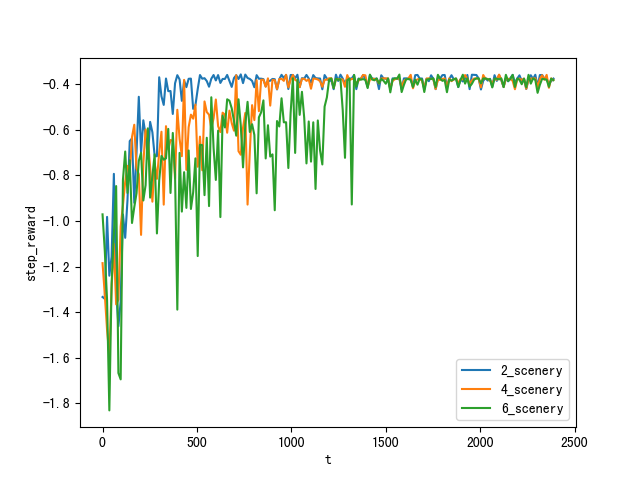
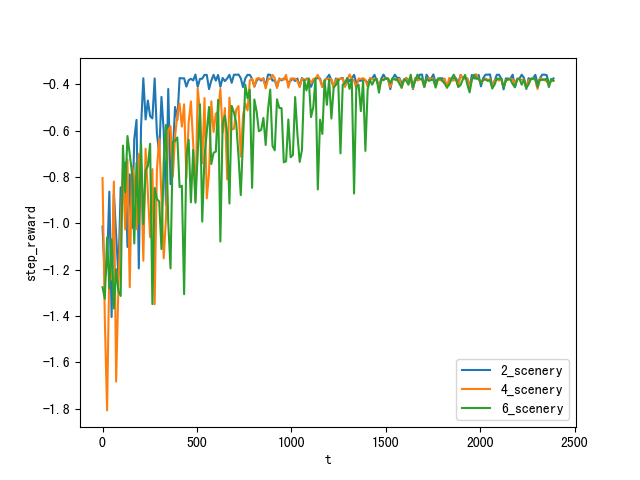
消耗图添加always_Best

diff --git a/environment/environment.py b/environment/environment.py
@@ -207,6 +207,7 @@ class Environment:
     def draw_without_reuse_table(self, arms, state):
         rewards = np.zeros((self.M,))
         regret_t = 0
+        num_cpt = 0
         for player in range(self.M):
             point = arms[player]
             rewards[player] = -self.phi / self.nearby(self.net_ability[point])  # 传输时延
@@ -216,9 +217,11 @@ class Environment:
                 regret_t += -(self.phi / self.net_ability[self.AB_best_point] + (
                             self.tao + self.phi / self.cpu_ability[self.AB_best_point]))
                 # regret_t += rewards[player]
+                num_cpt += 1
             elif player == 2:  # C服务
                 if point not in self.Cache[0][state[0]]:  # 节点上没有缓存
                     rewards[player] += -self.phi / self.nearby(self.cpu_ability[point])
+                    num_cpt += 1
                 regret_t += -(self.phi / self.net_ability[self.Cache[0][state[0]][0]] + self.tao)
                 # if -(self.phi / self.net_ability[self.Cache[0][state[0]][0]] + self.tao)<rewards[player]:
                 #     print(-(self.phi / self.net_ability[self.Cache[0][state[0]][0]] + self.tao))
@@ -226,6 +229,7 @@ class Environment:
             else:  # D服务
                 if point not in self.Cache[1][state[0] * self.O + state[1]]:  # 检索未命中
                     rewards[player] += -self.phi / self.nearby(self.cpu_ability[point])
+                    num_cpt += 1
                 regret_t += -(self.phi / self.net_ability[self.Cache[1][state[0] * self.O + state[1]][0]] + self.tao)
                 # if -(self.phi / self.net_ability[self.Cache[1][state[0]*self.O+state[1]][0]] + self.tao)<rewards[player]:
                 #     print(-(self.phi / self.net_ability[self.Cache[1][state[0]*self.O+state[1]][0]] + self.tao))
@@ -233,6 +237,7 @@ class Environment:
 
             regret_t -= rewards[player]
 
+        self.cpu_consume.append(num_cpt * (self.phi + random.uniform(0, 0.1)))
         return rewards, regret_t
 
     def draw_greedy(self):

diff --git a/algorithms/mctopm.py b/algorithms/mctopm.py
@@ -8,10 +8,6 @@ import pickle
 
 logger = logging.getLogger()
 logger.setLevel(logging.INFO)
-
-from tqdm import tqdm
-# from .algorithm import *
-# from .utils import *
 from algorithm import Algorithm
 from environment.environment import Environment
 
@@ -19,12 +15,13 @@ logger = logging.getLogger()
 logger.setLevel(logging.INFO)
 
 cythonized_KLUCB = False
-try:
-    pass
-    # from cklucb import computeKLUCB
-except:
-    cythonized_KLUCB = False
-    pass
+if cythonized_KLUCB:
+    try:
+        pass
+        # from cklucb import computeKLUCB
+    except:
+        cythonized_KLUCB = False
+        pass
 
 
 class MCTopM(Algorithm):
@@ -178,6 +175,8 @@ class MCTopM(Algorithm):
             msg = "H-MCB"
         elif self.env.reuse_type == 2:
             msg = "Non_reuse"
+        elif self.env.reuse_type==1:
+            msg = "Always_Best"
         else:
             raise ValueError
 
@@ -230,7 +229,7 @@ def get_all_algos(config):  # 生成五种算法
     return algos
 
 
-# 所有的对比图:
+# 下面每个方法绘制一张多条曲线的对比图:
 
 def change_K(K_list):  # 本文算法 改变计算节点数量
     plt.figure()
@@ -329,14 +328,15 @@ def change_policy():  # 五种算法 奖励变化情况
 def compare_Consume():  # 本文算法和无重用算法 对比计算资源消耗
     plt.figure()
     config = {'K': 20, 'S': 2}
-    env = Environment(config=config,
-                      deterministic=False)
 
-    env_no_reuse = Environment(config=config, reuse_type=2,
-                               deterministic=False)
+    env = Environment(config=config, deterministic=False)
+    env_reuse_no_table = Environment(config=config, reuse_type=1)
+    env_no_reuse = Environment(config=config, reuse_type=2, deterministic=False)
+
     algos = []
     algos.append(MCTopM(env))
     algos.append(MCTopM(env_no_reuse))
+    algos.append(MCTopM(env_reuse_no_table, policy=2))
     for algo in algos:
         algo.run()
         algo.plot_consume()
